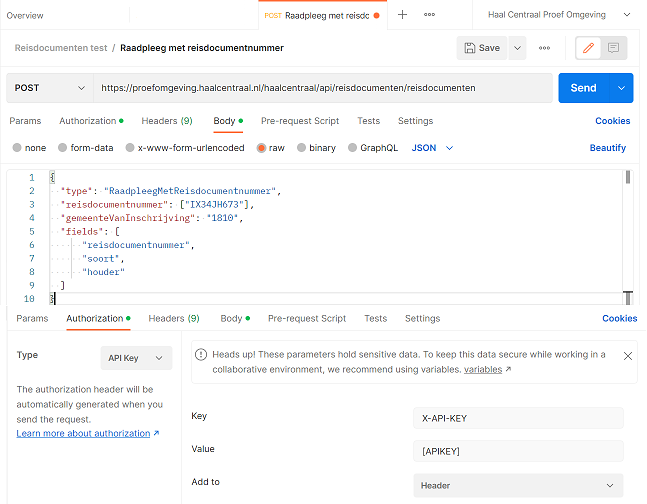
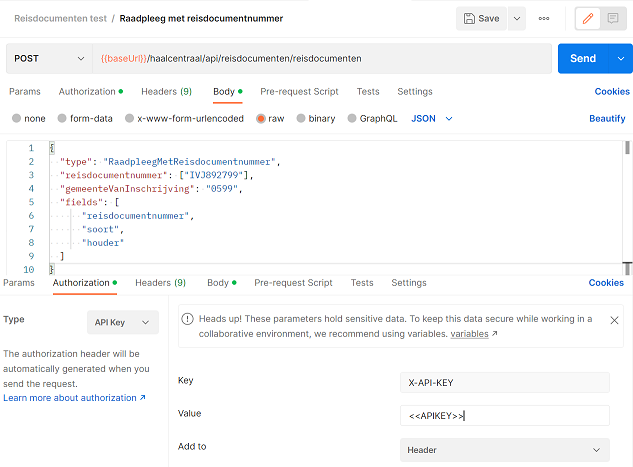
chore(docs): getting started aangepast

diff --git a/docs/v2/getting-started.md b/docs/v2/getting-started.md
@@ -37,8 +37,8 @@ curl --request POST \
 --header 'X-API-KEY: <<APIKEY>>' \
 --data '{
   "type": "RaadpleegMetReisdocumentnummer",
-  "reisdocumentnummer": ["IX34JH673"],
-  "gemeenteVanInschrijving": "1810",
+  "reisdocumentnummer": ["IVJ892799"],
+  "gemeenteVanInschrijving": "0599",
   "fields": [
       "reisdocumentnummer",
       "soort",
@@ -49,6 +49,8 @@ curl --request POST \
 ```
 
 Onderstaand figuur visualiseert de configuratie van bovenstaande aanroep in Postman
+
+**Opmerking**. In de proefomgeving kunnen alleen reisdocumenten van test personen die staan ingeschreven in de gemeente Rotterdam (gemeenteVanInschrijving = 0599).
 
 ![Raadpleeg met reisdocumentnummer](../img/postman-voorbeeld-aanroep.png)
 
@@ -67,7 +69,7 @@ De '{{ site.apiname }}' Proxy kan lokaal worden uitgeprobeerd met behulp van [Do
 - [Docker Desktop](https://www.docker.com/products/docker-desktop){:target="_blank" rel="noopener"} op een Windows of Mac PC worden geïnstalleerd
 - op dezelfde Windows of Mac PC het [docker compose bestand]({{ site.v2DockerComposeUrl }}){:target="_blank" rel="noopener"} worden gedownload
 
-Vervolgens moet een command prompt worden gestart in de map met het gedownloade [docker compose bestand]({{ site.v2DockerComposeUrl }}){:target="_blank" rel="noopener"} en moet in de command prompt de volgende statement worden uitgevoerd om de '{{ site.apiname }}' Proxy op te starten:
+Start een command prompt in de map met het gedownloade [docker compose bestand]({{ site.v2DockerComposeUrl }}){:target="_blank" rel="noopener"} en voer de volgende statement uit om de '{{ site.apiname }}' Proxy op te starten:
 
 ```sh
 
@@ -75,7 +77,7 @@ docker-compose up -d
 
 ```
 
-Behalve de '{{ site.apiname }}' Proxy wordt lokaal ook een mock van de GBA variant van de '{{ site.apiname }}' Web API opgestart. De mock maakt om lokaal zonder apikey de functionaliteit van de '{{ site.apiname }}' Web API uit te proberen.
+Behalve de '{{ site.apiname }}' Proxy wordt lokaal ook een mock van de GBA variant van de '{{ site.apiname }}' Web API opgestart. De mock maakt het mogelijk om lokaal zonder apikey de functionaliteit van de '{{ site.apiname }}' Web API uit te proberen.
 
 Met behulp van de volgende curl statement wordt op basis van een reisdocumentnummer gegevens van de bijbehorende reisdocument via de '{{ site.apiname }}' Proxy bij de mock opgehaald
 
@@ -86,8 +88,8 @@ curl --request POST \
 --header 'Content-Type: application/json' \
 --data '{
   "type": "RaadpleegMetReisdocumentnummer",
-  "reisdocumentnummer": ["IX34JH673"],
-  "gemeenteVanInschrijving": "1810",
+  "reisdocumentnummer": ["IVJ892799"],
+  "gemeenteVanInschrijving": "0599",
   "fields": [
       "reisdocumentnummer",
       "soort",
@@ -107,7 +109,9 @@ docker-compose down
 
 ## Routeer Proxy aanroepen naar de GBA variant van de Web API in de proef omgeving
 
-Stop de proxy container met behulp van de volgende statement:
+Hiervoor moeten environment variabelen worden toegevoegd aan de '{{ site.apiname }}' Proxy in het [docker compose bestand]({{ site.v2DockerComposeUrl }}){:target="_blank" rel="noopener"}.
+
+Stop eerst de proxy container met behulp van de volgende statement:
 
 ```sh
 
@@ -162,8 +166,8 @@ curl --request POST \
 --header 'X-API-KEY: <<APIKEY>>' \
 --data '{
   "type": "RaadpleegMetReisdocumentnummer",
-  "reisdocumentnummer": ["IX34JH673"],
-  "gemeenteVanInschrijving": "1810",
+  "reisdocumentnummer": ["IVJ892799"],
+  "gemeenteVanInschrijving": "0599",
   "fields": [
       "reisdocumentnummer",
       "soort",
